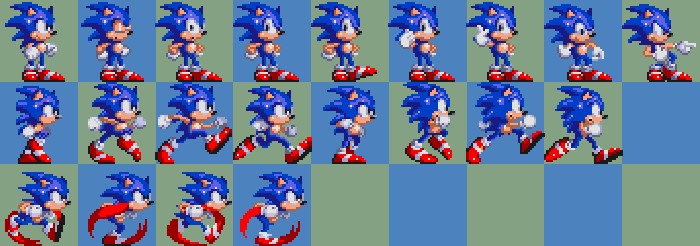
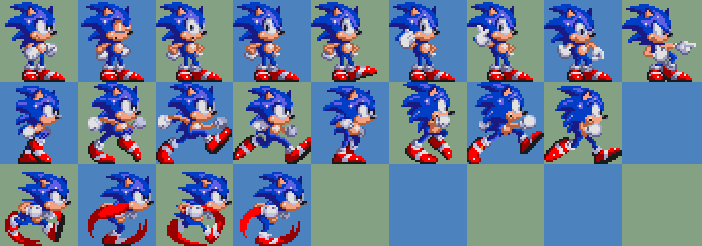
add atlas splitter

diff --git a/Simple2DEngine/Engine/Graphic/TexturesOperating.cs b/Simple2DEngine/Engine/Graphic/TexturesOperating.cs
@@ -3,9 +3,9 @@ using static SDL2.SDL_image;
 using static Engine2D.Engine.Graphic.DrawingMethods;
 using System;
 using WM;
-using System.Runtime.CompilerServices;
-using System.Security.Cryptography.X509Certificates;
-using System.Drawing;
+using SixLabors.ImageSharp;
+using SixLabors.ImageSharp.Processing;
+
 namespace Engine2D
 {
   public partial class Engine : WindowManager
@@ -48,8 +48,49 @@ namespace Engine2D
     public static void LoadTexture(uint windowId, string directoryPath, string fileName)
     {
       _textures
-        [ fileName[.. ^(fileName.Length - fileName.LastIndexOf("."))] ] =
+        [ fileName[.. ^(fileName.Length - fileName.LastIndexOf('.'))] ] =
         IMG_LoadTexture(_windows[windowId].GetRenderer(), directoryPath + fileName);
+    }
+
+    public static void LoadTexturesFromAtlas(
+      uint windowId,
+      string path, string nameToLoad,
+      int columns, int rows,
+      int width, int height)
+    {
+      string format        = path[path.LastIndexOf('.') ..];
+      string name          = path[(path.LastIndexOf('/') + 1) .. path.LastIndexOf('.')];
+      string directoryPath = path[.. (path.LastIndexOf('/') + 1)] + "temp/";
+      
+      Image image = Image.Load(path);
+      Directory.CreateDirectory(directoryPath);
+
+      int i = 0;
+
+      for (int y = 0; y < rows; y++)
+      {
+        for (int x = 0; x < columns; x++)
+        {
+          if (image.Width - x * width >= width && image.Height - y * height >= height)
+          {
+            Image clone = image.Clone(
+                  p => p.Crop(new Rectangle(x * width, y * height, width, height)));
+
+            clone.Save(directoryPath + nameToLoad + i.ToString() + format);
+
+            _textures[ nameToLoad + i.ToString() ] =
+                IMG_LoadTexture(
+                  _windows[windowId].GetRenderer(),
+                  directoryPath + nameToLoad + i.ToString() + format
+                );
+
+            File.Delete(directoryPath + nameToLoad + i.ToString() + format);
+            i++;
+          }
+        }
+      }
+
+      Directory.Delete(directoryPath);
     }
 
     private static void DestroyTextures()

diff --git a/Simple2DEngine/Program.cs b/Simple2DEngine/Program.cs
@@ -10,7 +10,6 @@ using static Engine2D.Engine.EventHandler;
 using static Engine2D.Engine.Scene.GameObject;
 using static Engine2D.Engine.Scene.PhysicalObject;
 using WM;
-using System.Runtime.CompilerServices;
 
 namespace Program
 {
@@ -26,22 +25,20 @@ namespace Program
       Window? win = GetScene(_scene)?.GetWindow();
       if (win != null)
       {
-        LoadTextures(
+        
+        Engine.LoadTexturesFromAtlas(
           SDL_GetWindowID(win.GetWindowPtr()),
-          "../images/sonic/", [
-                                "1.png",  "2.png",  "3.png",
-                                "4.png",  "5.png",  "6.png",
-                                "1f.png", "2f.png", "3f.png",
-                                "4f.png", "5f.png", "6f.png",
-                              ]
+          "../images/sonicAtlas.png", "sonic",
+          9, 2,
+          78, 82
         );
       }
-      _textures = [ 
-        Engine.GetTexture("1"),  Engine.GetTexture("2"),  Engine.GetTexture("3"),  
-        Engine.GetTexture("4"),  Engine.GetTexture("5"),  Engine.GetTexture("6"),
-        Engine.GetTexture("1f"), Engine.GetTexture("2f"), Engine.GetTexture("3f"),
-        Engine.GetTexture("4f"), Engine.GetTexture("5f"), Engine.GetTexture("6f")
-      ];
+      
+      for (int i = 0; i < 18; i++)
+      {
+        _textures.Add(Engine.GetTexture("sonic" + i.ToString()));
+      }
+      
 
       int? windowH = GetScene(_scene)?.GetWindow()?.GetWindowH();
       int? windowW = GetScene(_scene)?.GetWindow()?.GetWindowW();
@@ -224,7 +221,7 @@ namespace Program
       Setup();
 
       //! Animated sprite example
-      // GetScene("Main")?.AddObject(new AnimatedSpriteExample("Sonic", "Main"));
+      GetScene("Main")?.AddObject(new AnimatedSpriteExample("Sonic", "Main"));
 
 
       //! Physical object example
